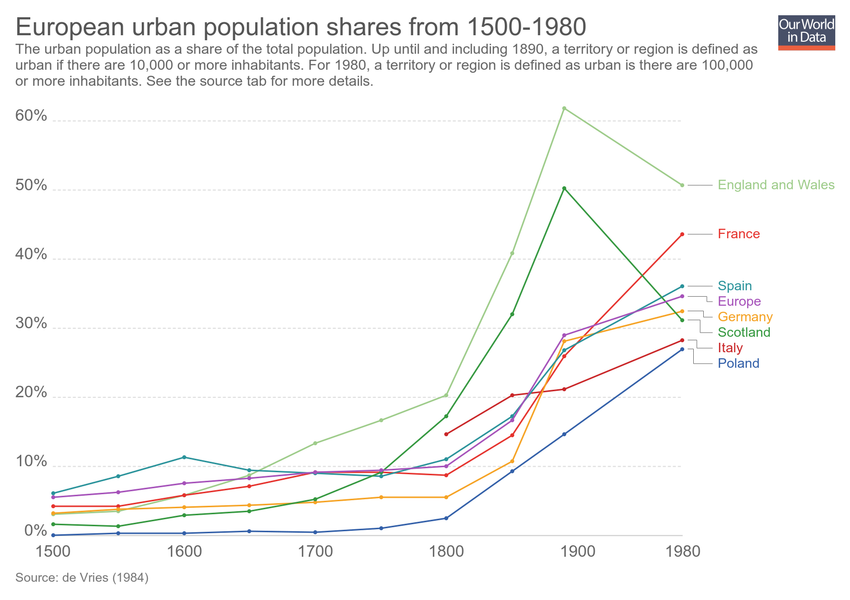
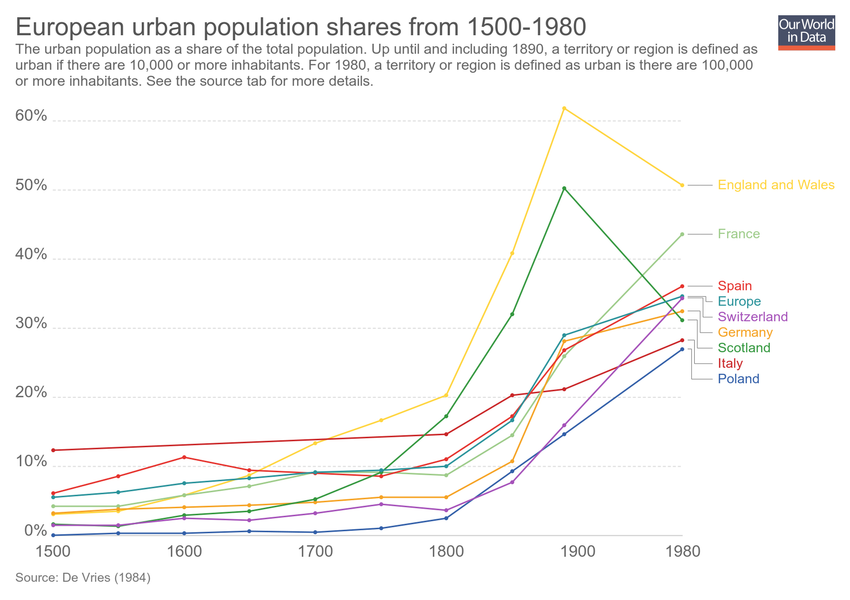
Updating chart european-urban-population-shares-from-1500-1980

diff --git a/grapher/european-urban-population-shares-from-1500-1980.html b/grapher/european-urban-population-shares-from-1500-1980.html
@@ -1,4 +1,4 @@
-<!doctype html><html><head><meta name="viewport" content="width=device-width, initial-scale=1" /><title>European urban population shares from 1500-1980 - Our World in Data</title><meta name="description" content="The urban population as a share of the total population. Up until and including 1890, a territory or region is defined as urban if there are 10,000 or more inhabitants. For 1980, a territory or region is defined as urban is there are 100,000 or more inhabitants. See the source tab for more details." /><link rel="canonical" href="https://ourworldindata.org/grapher/european-urban-population-shares-from-1500-1980" /><meta property="fb:app_id" content="1149943818390250" /><meta property="og:url" content="https://ourworldindata.org/grapher/european-urban-population-shares-from-1500-1980" /><meta property="og:title" content="European urban population shares from 1500-1980" /><meta property="og:description" content="The urban population as a share of the total population. Up until and including 1890, a territory or region is defined as urban if there are 10,000 or more inhabitants. For 1980, a territory or region is defined as urban is there are 100,000 or more inhabitants. See the source tab for more details." /><meta property="og:image" content="https://ourworldindata.org/grapher/exports/european-urban-population-shares-from-1500-1980.png?v=3" /><meta property="og:image:width" content="850" /><meta property="og:image:height" content="600" /><meta property="og:site_name" content="Our World in Data" /><meta name="twitter:card" content="summary_large_image" /><meta name="twitter:site" content="@OurWorldInData" /><meta name="twitter:creator" content="@OurWorldInData" /><meta name="twitter:title" content="European urban population shares from 1500-1980" /><meta name="twitter:description" content="The urban population as a share of the total population. Up until and including 1890, a territory or region is defined as urban if there are 10,000 or more inhabitants. For 1980, a territory or region is defined as urban is there are 100,000 or more inhabitants. See the source tab for more details." /><meta name="twitter:image" content="https://ourworldindata.org/grapher/exports/european-urban-population-shares-from-1500-1980.png?v=3" /><style>
+<!doctype html><html><head><meta name="viewport" content="width=device-width, initial-scale=1" /><title>European urban population shares from 1500-1980 - Our World in Data</title><meta name="description" content="The urban population as a share of the total population. Up until and including 1890, a territory or region is defined as urban if there are 10,000 or more inhabitants. For 1980, a territory or region is defined as urban is there are 100,000 or more inhabitants. See the source tab for more details." /><link rel="canonical" href="https://ourworldindata.org/grapher/european-urban-population-shares-from-1500-1980" /><meta property="fb:app_id" content="1149943818390250" /><meta property="og:url" content="https://ourworldindata.org/grapher/european-urban-population-shares-from-1500-1980" /><meta property="og:title" content="European urban population shares from 1500-1980" /><meta property="og:description" content="The urban population as a share of the total population. Up until and including 1890, a territory or region is defined as urban if there are 10,000 or more inhabitants. For 1980, a territory or region is defined as urban is there are 100,000 or more inhabitants. See the source tab for more details." /><meta property="og:image" content="https://ourworldindata.org/grapher/exports/european-urban-population-shares-from-1500-1980.png?v=4" /><meta property="og:image:width" content="850" /><meta property="og:image:height" content="600" /><meta property="og:site_name" content="Our World in Data" /><meta name="twitter:card" content="summary_large_image" /><meta name="twitter:site" content="@OurWorldInData" /><meta name="twitter:creator" content="@OurWorldInData" /><meta name="twitter:title" content="European urban population shares from 1500-1980" /><meta name="twitter:description" content="The urban population as a share of the total population. Up until and including 1890, a territory or region is defined as urban if there are 10,000 or more inhabitants. For 1980, a territory or region is defined as urban is there are 100,000 or more inhabitants. See the source tab for more details." /><meta name="twitter:image" content="https://ourworldindata.org/grapher/exports/european-urban-population-shares-from-1500-1980.png?v=4" /><style>
         html, body {
             height: 100%;
             margin: 0;
@@ -20,8 +20,8 @@
         }
     </style><noscript><style>
                     figure { display: none !important; }
-                </style></noscript><link rel="stylesheet" href="https://ourworldindata.org/grapher/assets/commons.bundle.b9f051796dbbbb7e5139.css" /><link rel="preload" href="/grapher/data/variables/97816.json?v=3" as="fetch" crossorigin /></head><body class="singleChart"><figure data-grapher-src="/grapher/european-urban-population-shares-from-1500-1980"></figure><noscript id="fallback"><img src="/grapher/exports/european-urban-population-shares-from-1500-1980.svg" /><p>Interactive visualization requires JavaScript</p></noscript><script src="https://cdn.polyfill.io/v2/polyfill.min.js?features=es6,fetch"></script><script src="https://ourworldindata.org/grapher/assets/commons.bundle.b9f051796dbbbb7e5139.js"></script><script src="https://ourworldindata.org/grapher/assets/charts.bundle.b9f051796dbbbb7e5139.js"></script><script>
-        var jsonConfig = {"id":2960,"map":{"projection":"World","colorSchemeLabels":[],"colorSchemeValues":[],"customNumericColors":[],"customCategoryColors":{},"customCategoryLabels":{},"customHiddenCategories":{}},"tab":"chart","slug":"european-urban-population-shares-from-1500-1980","type":"LineChart","title":"European urban population shares from 1500-1980","xAxis":{"scaleType":"linear"},"yAxis":{"min":0,"scaleType":"linear"},"version":3,"subtitle":"The urban population as a share of the total population. Up until and including 1890, a territory or region is defined as urban if there are 10,000 or more inhabitants. For 1980, a territory or region is defined as urban is there are 100,000 or more inhabitants. See the source tab for more details.","hasMapTab":false,"stackMode":"absolute","dimensions":[{"display":{},"property":"y","variableId":97816}],"entityType":"entity","isAutoSlug":true,"hasChartTab":true,"isPublished":true,"selectedData":[{"index":0,"entityId":278},{"index":0,"entityId":8},{"index":0,"entityId":3},{"index":0,"entityId":6},{"index":0,"entityId":9},{"index":0,"entityId":358},{"index":0,"entityId":11},{"index":0,"entityId":276}],"addCountryMode":"add-country"};
+                </style></noscript><link rel="stylesheet" href="https://ourworldindata.org/grapher/assets/commons.bundle.b9f051796dbbbb7e5139.css" /><link rel="preload" href="/grapher/data/variables/97816.json?v=4" as="fetch" crossorigin /></head><body class="singleChart"><figure data-grapher-src="/grapher/european-urban-population-shares-from-1500-1980"></figure><noscript id="fallback"><img src="/grapher/exports/european-urban-population-shares-from-1500-1980.svg" /><p>Interactive visualization requires JavaScript</p></noscript><script src="https://cdn.polyfill.io/v2/polyfill.min.js?features=es6,fetch"></script><script src="https://ourworldindata.org/grapher/assets/commons.bundle.b9f051796dbbbb7e5139.js"></script><script src="https://ourworldindata.org/grapher/assets/charts.bundle.b9f051796dbbbb7e5139.js"></script><script>
+        var jsonConfig = {"id":2960,"map":{"projection":"World","colorSchemeLabels":[],"colorSchemeValues":[],"customNumericColors":[],"customCategoryColors":{},"customCategoryLabels":{},"customHiddenCategories":{}},"tab":"chart","slug":"european-urban-population-shares-from-1500-1980","type":"LineChart","title":"European urban population shares from 1500-1980","xAxis":{"scaleType":"linear"},"yAxis":{"min":0,"scaleType":"linear"},"version":4,"subtitle":"The urban population as a share of the total population. Up until and including 1890, a territory or region is defined as urban if there are 10,000 or more inhabitants. For 1980, a territory or region is defined as urban is there are 100,000 or more inhabitants. See the source tab for more details.","hasMapTab":false,"stackMode":"absolute","dimensions":[{"display":{},"property":"y","variableId":97816}],"entityType":"entity","hasChartTab":true,"isPublished":true,"selectedData":[{"index":0,"entityId":278},{"index":0,"entityId":8},{"index":0,"entityId":3},{"index":0,"entityId":6},{"index":0,"entityId":9},{"index":0,"entityId":358},{"index":0,"entityId":11},{"index":0,"entityId":276},{"index":0,"entityId":7}],"addCountryMode":"add-country"};
         var figure = document.getElementsByTagName("figure")[0];
         try {
             window.App = {};
